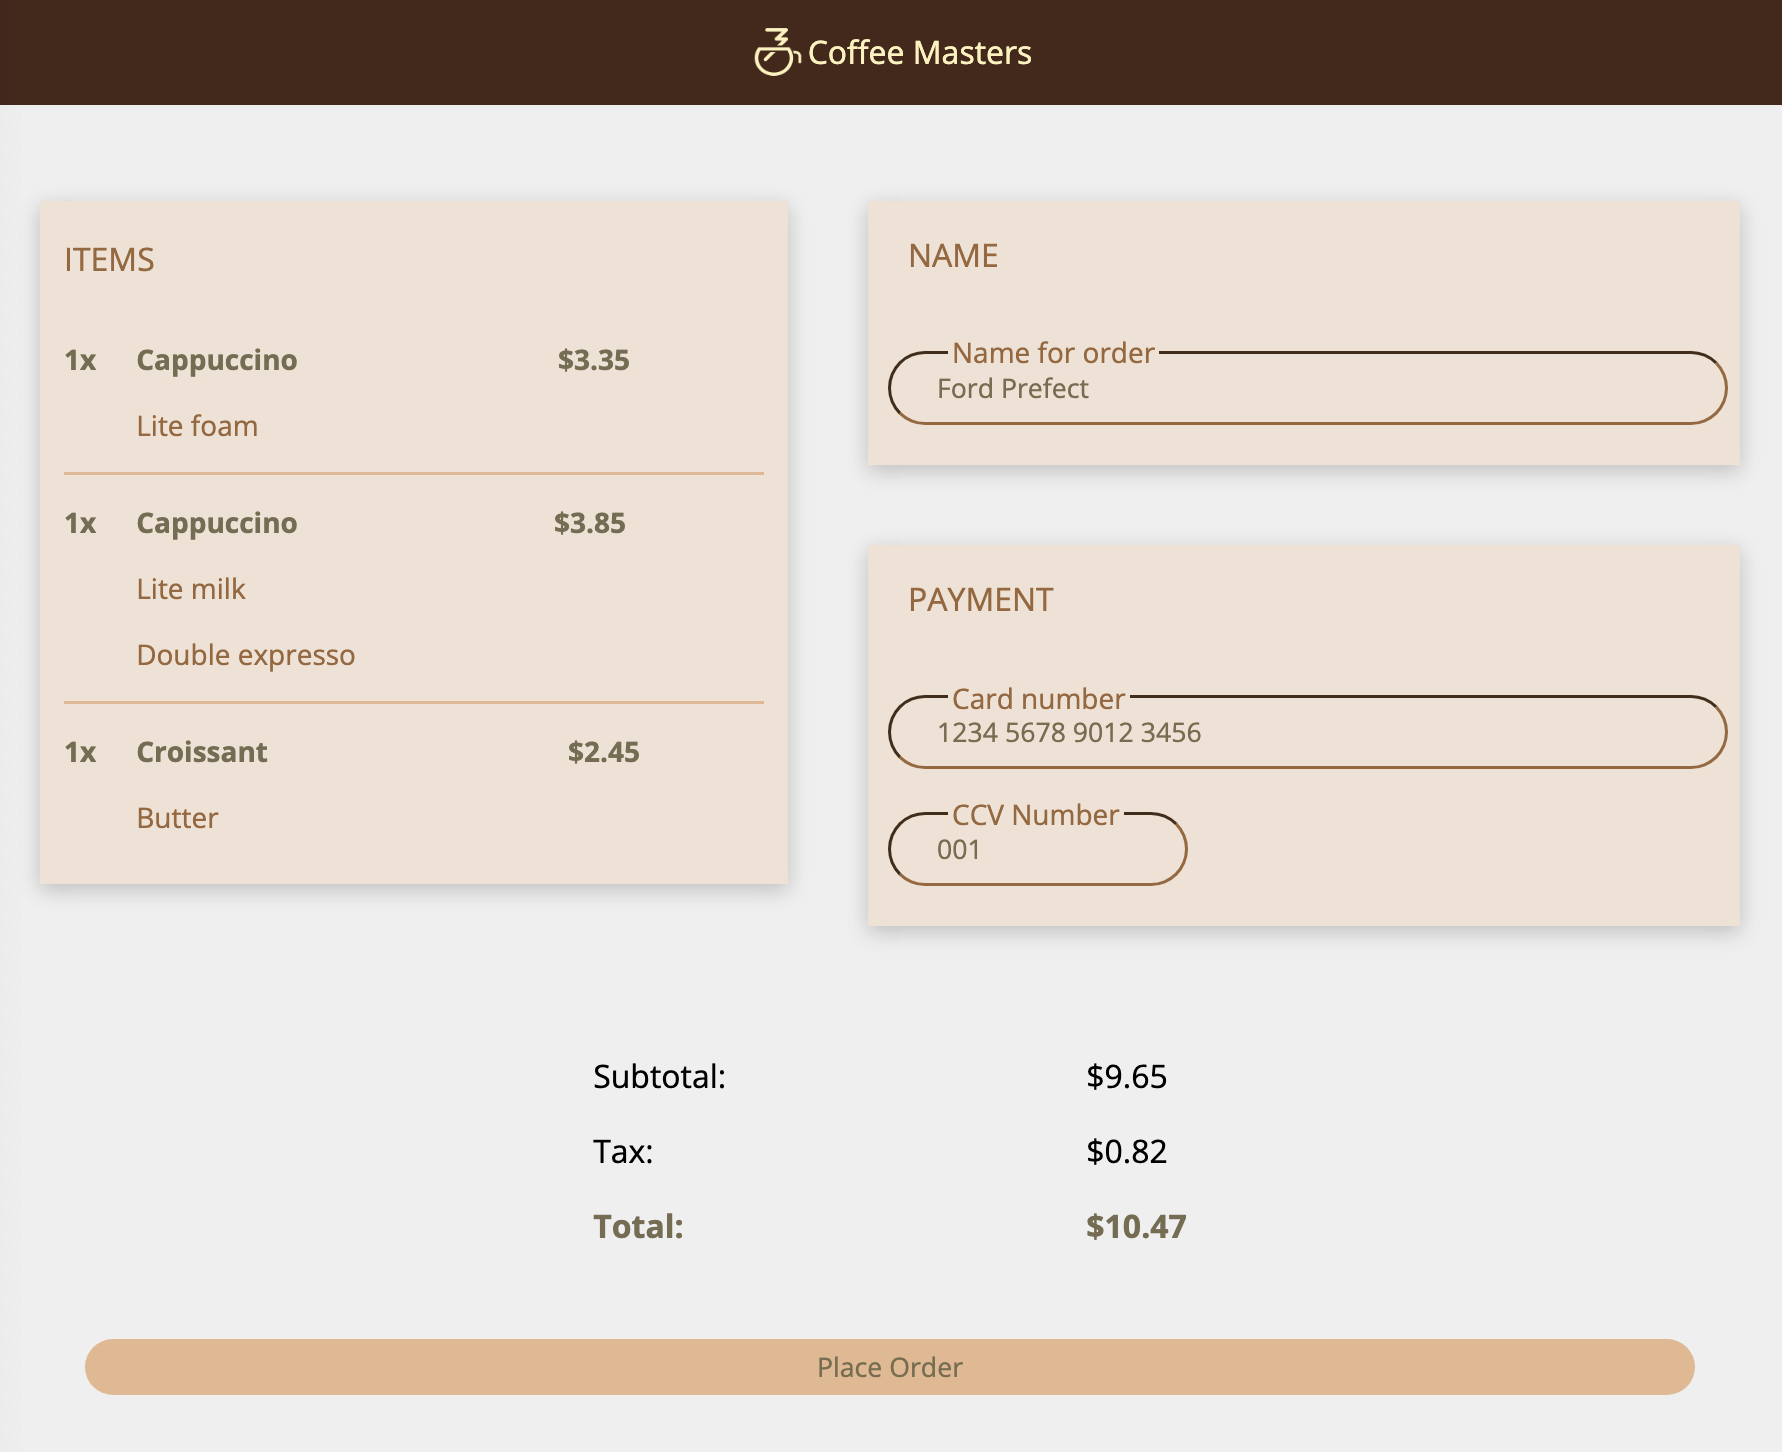
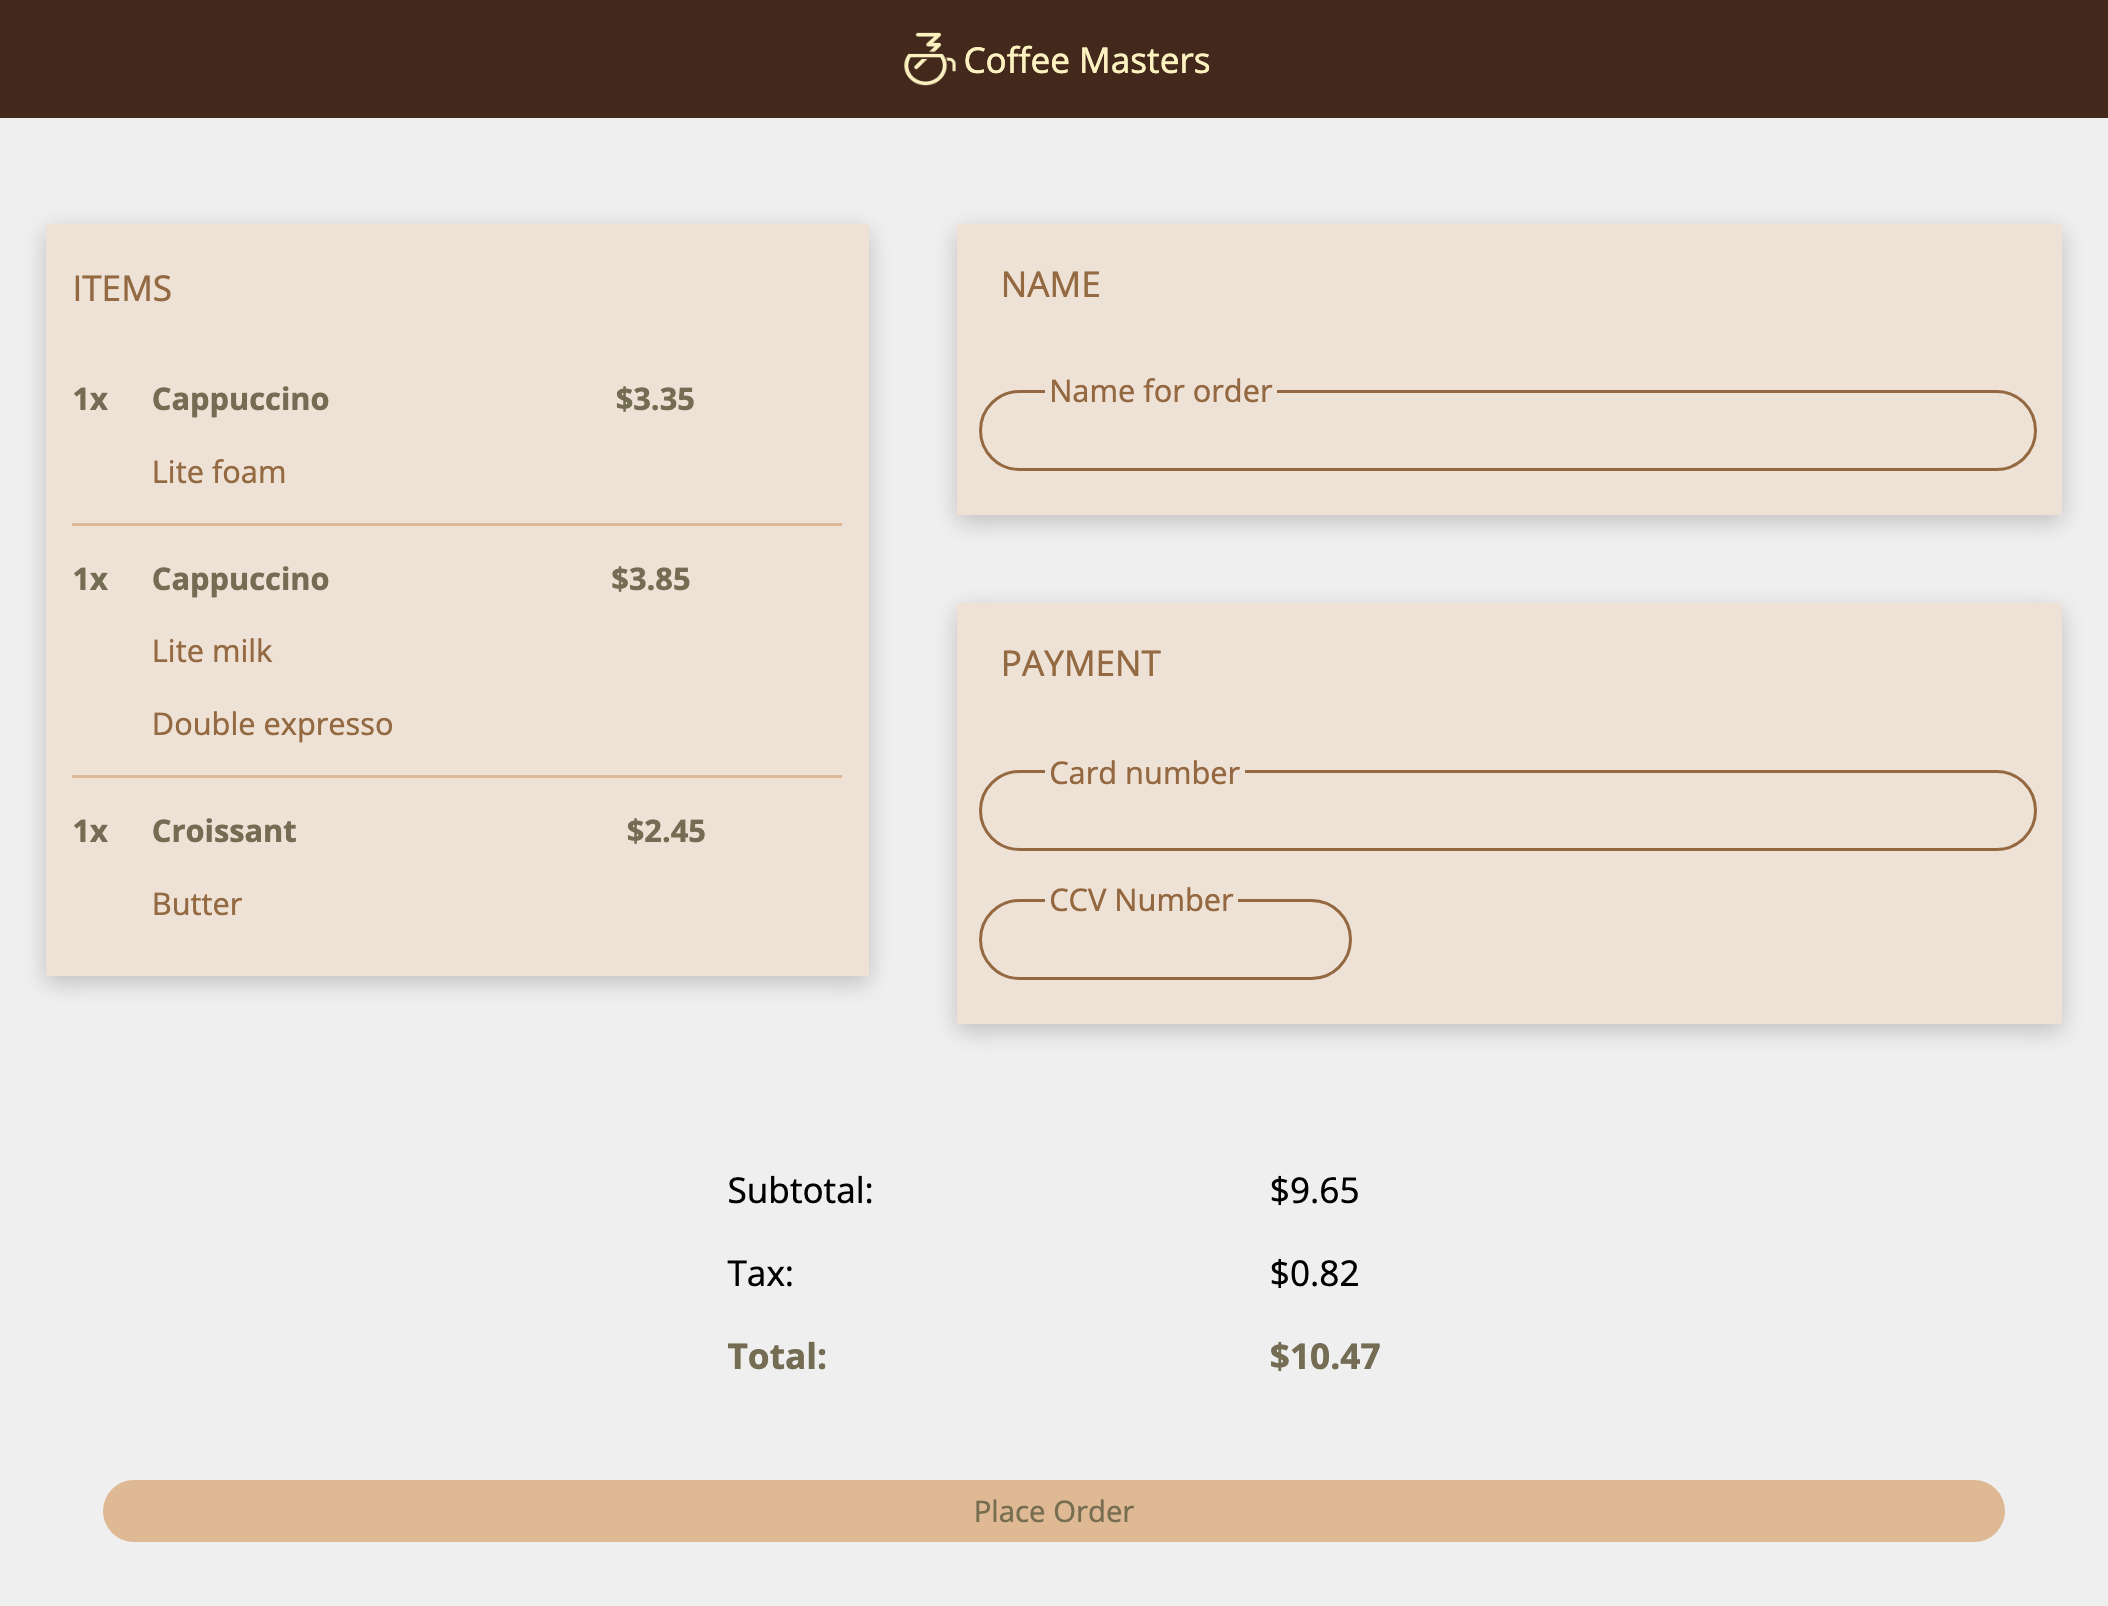
added some html and css

diff --git a/trial 2_flexbox only/index.html b/trial 2_flexbox only/index.html
@@ -3,10 +3,35 @@
   <head>
     <meta charset="UTF-8" />
     <meta name="viewport" content="width=device-width, initial-scale=1.0" />
+    <link
+      href="https://fonts.googleapis.com/css2?family=Open+Sans:wght@400;700&display=swap"
+      rel="stylesheet"
+    />
     <link rel="stylesheet" type="text/css" href="./styles.css" />
-    <title>Document</title>
+    <title>Coffee Masters</title>
   </head>
   <body>
-    
+    <nav>
+      <img
+        class="nav-img"
+        src="https://btholt.github.io/complete-intro-to-web-dev-v3/images/coffee_masters_logo.png"
+        alt="coffee mug"
+        width="36"
+        height="36"
+      />
+      <p class="nav-title">Coffee Masters</p>
+    </nav>
+    <div class="items-container"></div>
+    <div class="name-container"></div>
+    <div class="payment-container"></div>
+    <ul class="list">
+      <li>Subtotal:</li>
+      <li>Tax:</li>
+      <li class="bold">Total:</li>
+      <li>$9.65</li>
+      <li>$0.82</li>
+      <li class="bold">$10.47</li>
+    </ul>
+    <button>Place Order</button>
   </body>
 </html>

diff --git a/trial 2_flexbox only/styles.css b/trial 2_flexbox only/styles.css
@@ -1,0 +1,58 @@
+* {
+  font-family: "Open Sans", sans-serif;
+}
+
+body {
+  background-color: #efefef;
+  margin: 0;
+}
+
+nav {
+  display: flex;
+  justify-content: center;
+  align-items: center;
+  background-color: #412315;
+}
+
+.nav-img {
+  margin: 0px 5px;
+}
+
+.nav-title {
+  font-size: 22px;
+  color: #fbf2c0;
+}
+
+.list {
+  display: flex;
+  flex-direction: column;
+  flex-wrap: wrap;
+  list-style-type: none;
+  height: 160px;
+  width: 625px;
+  margin: 70px 700px;
+  font-size: 23px;
+}
+
+li {
+  padding: 7px;
+}
+
+button {
+  width: 95%;
+  height: 35px;
+  margin: 35px;
+  padding: 18px;
+  border-radius: 100px;
+  background-color: #deb993;
+  font-size: 20px;
+  display: flex;
+  justify-content: center;
+  align-items: center;
+  color: #655a49;
+  border: 2px solid #deb993;
+}
+
+.bold {
+  font-weight: 700;
+}

diff --git a/trial 1_flexbox only/styles_flex.css b/trial 1_flexbox only/styles_flex.css
@@ -6,8 +6,7 @@ input {
   padding: 8px;
   border-radius: 100px;
   background-color: #eee1d5;
-  border-color: #946941;
-  border-width: 1.5px;
+  border: 1.5px solid #946941;
   width: 92%;
   margin: 0px 10px;
   color: #776e51;
